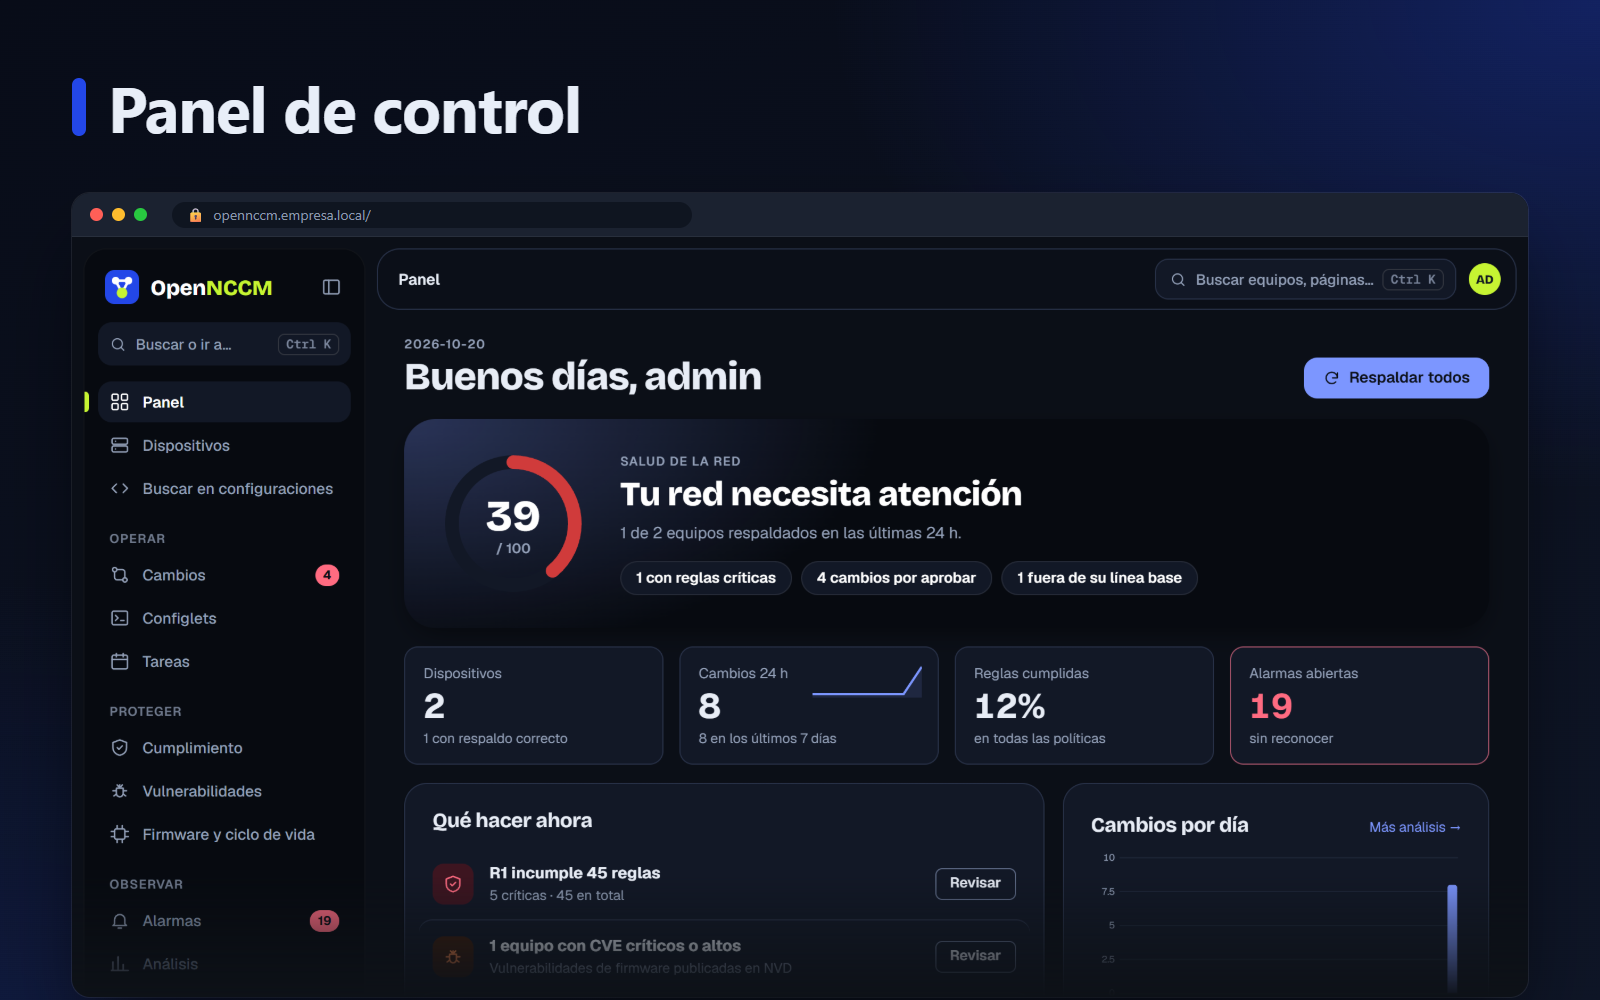
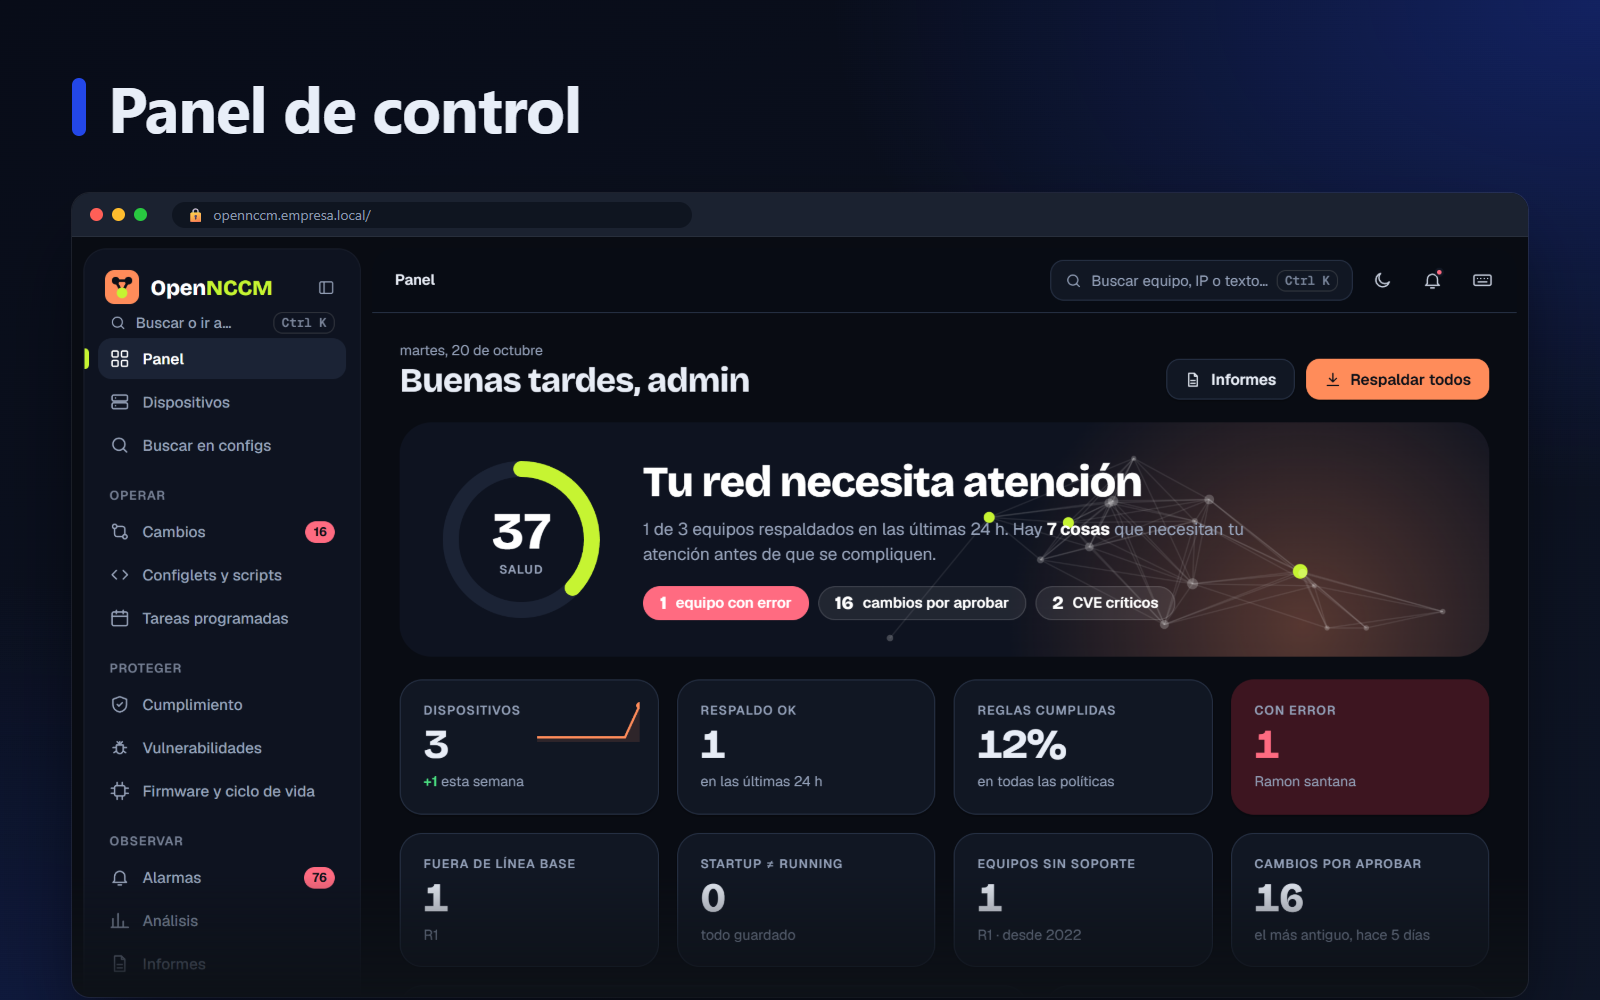
Web al día con OpenNCCM 2.0.1: capturas del diseño 2.0 y consola en diálogo

diff --git a/site/index.html b/site/index.html
@@ -116,17 +116,17 @@
     </div>
     <div class="galeria">
       <div class="pestanas" role="tablist" aria-label="Capturas">
-        <button role="tab" aria-selected="true" data-img="panel" data-txt="<b>Panel de control</b>: puntuación de salud de la red (0–100), «Qué hacer ahora» y el rendimiento del propio servidor.">Panel</button>
+        <button role="tab" aria-selected="true" data-img="panel" data-txt="<b>Panel de control</b>: puntuación de salud de la red (0–100), lo que necesita atención y el estado de respaldos, cumplimiento y cambios.">Panel</button>
         <button role="tab" aria-selected="false" data-img="equipo" data-txt="<b>Ficha del equipo</b>: inventario (modelo, serie y firmware) y el historial completo de cada configuración, organizados en pestañas.">Equipo</button>
         <button role="tab" aria-selected="false" data-img="diff" data-txt="<b>Comparación lado a lado</b>: un resumen «Qué cambió» y el detalle línea a línea, entre versiones o entre equipos distintos.">Comparación</button>
-        <button role="tab" aria-selected="false" data-img="consola" data-txt="<b>Consola SSH en el navegador</b>: entra al equipo sin instalar nada, en una ventana aparte y con auditoría.">Consola</button>
+        <button role="tab" aria-selected="false" data-img="consola" data-txt="<b>Consola SSH en el navegador</b>: entra al equipo sin instalar nada, en un diálogo sobre la página (o en ventana aparte), con reconexión, pantalla completa y auditoría.">Consola</button>
         <button role="tab" aria-selected="false" data-img="cumplimiento" data-txt="<b>Cumplimiento</b>: PCI DSS, HIPAA, SOX y hardening, con corrección en un clic (y aprobación si se exige).">Cumplimiento</button>
         <button role="tab" aria-selected="false" data-img="analisis" data-txt="<b>Análisis</b>: actividad por origen, mapa de calor día × hora («cuándo cambia la red»), tendencias y cumplimiento por política.">Análisis</button>
         <button role="tab" aria-selected="false" data-img="temas" data-txt="<b>3 temas y 7 acentos</b>: claro, sala de control (oscuro) y alto contraste, más el automático, todos con contraste WCAG 2.1 AA.">Temas</button>
       </div>
       <figure role="tabpanel">
         <img id="captura" src="img/capturas/panel.png" alt="Panel de control con el estado de la red y del servidor" width="1600" height="1000">
-        <figcaption id="captura-txt"><b>Panel de control</b>: puntuación de salud de la red (0–100), «Qué hacer ahora» y el rendimiento del propio servidor.</figcaption>
+        <figcaption id="captura-txt"><b>Panel de control</b>: puntuación de salud de la red (0–100), lo que necesita atención y el estado de respaldos, cumplimiento y cambios.</figcaption>
       </figure>
     </div>
   </div>
@@ -146,7 +146,7 @@
       <article class="tarjeta"><div class="icono">🛡</div><h3>Cumplimiento</h3><p>Mapa equipo × política, corrección por regla y un editor que prueba cada regla en vivo. Paquetes PCI DSS 4.0, HIPAA, SOX y hardening de Cisco IOS y Junos.</p></article>
       <article class="tarjeta"><div class="icono">📦</div><h3>Firmware</h3><p>Repositorio de imágenes, actualización remota (SCP, MD5, arranque y reinicio) y fin de vida EOL/EOS en una sola página, con el soporte restante de cada equipo.</p></article>
       <article class="tarjeta"><div class="icono">🚨</div><h3>Vulnerabilidades</h3><p>CVE del firmware de cada equipo (NVD) agrupadas por vulnerabilidad, con la marca «explotado activamente» del catálogo KEV de CISA.</p></article>
-      <article class="tarjeta"><div class="icono">🖥</div><h3>Consola web</h3><p>SSH al equipo desde el navegador, en ventana aparte, con inicio de sesión automático opcional y auditoría.</p></article>
+      <article class="tarjeta"><div class="icono">🖥</div><h3>Consola web</h3><p>SSH al equipo desde el navegador, en un diálogo con reconexión y pantalla completa o en ventana aparte, con inicio de sesión automático opcional y auditoría.</p></article>
       <article class="tarjeta"><div class="icono">⏰</div><h3>Operación diaria</h3><p>Tareas programadas sin escribir cron, alarmas por severidad y avisos por correo, Teams, Slack o Telegram.</p></article>
       <article class="tarjeta"><div class="icono">📈</div><h3>Análisis e informes</h3><p>Actividad por origen, mapa de calor día × hora, tendencias y cumplimiento por política; informes en pantalla, CSV y por correo.</p></article>
       <article class="tarjeta"><div class="icono">🔐</div><h3>Acceso y seguridad</h3><p>Roles admin, operador y lector, grupos de equipos, verificación en dos pasos (TOTP) y auditoría completa.</p></article>

diff --git a/site/en/index.html b/site/en/index.html
@@ -118,17 +118,17 @@
     </div>
     <div class="galeria">
       <div class="pestanas" role="tablist" aria-label="Screenshots">
-        <button role="tab" aria-selected="true" data-img="panel" data-txt="<b>Dashboard</b>: a network health score (0–100), a “What to do now” list and the health of the server itself.">Dashboard</button>
+        <button role="tab" aria-selected="true" data-img="panel" data-txt="<b>Dashboard</b>: a network health score (0–100), what needs attention, and the state of backups, compliance and changes.">Dashboard</button>
         <button role="tab" aria-selected="false" data-img="equipo" data-txt="<b>Device page</b>: inventory (model, serial number and firmware) and the full history of every configuration, organized in tabs.">Device</button>
         <button role="tab" aria-selected="false" data-img="diff" data-txt="<b>Side-by-side diff</b>: a “What changed” summary plus line-by-line detail, between versions or between different devices.">Diff</button>
-        <button role="tab" aria-selected="false" data-img="consola" data-txt="<b>SSH console in the browser</b>: reach the device with nothing to install, in its own window and fully audited.">Console</button>
+        <button role="tab" aria-selected="false" data-img="consola" data-txt="<b>SSH console in the browser</b>: reach the device with nothing to install, in a dialog over the page (or its own window), with reconnect, full screen and full auditing.">Console</button>
         <button role="tab" aria-selected="false" data-img="cumplimiento" data-txt="<b>Compliance</b>: PCI DSS, HIPAA, SOX and hardening, with one-click remediation (and approval if required).">Compliance</button>
         <button role="tab" aria-selected="false" data-img="analisis" data-txt="<b>Analytics</b>: activity by source, a day × hour heat map (“when does the network change”), trends and compliance by policy.">Analytics</button>
         <button role="tab" aria-selected="false" data-img="temas" data-txt="<b>3 themes and 7 accents</b>: light, control room (dark) and high contrast, plus automatic, all meeting WCAG 2.1 AA contrast.">Themes</button>
       </div>
       <figure role="tabpanel">
         <img id="captura" src="../img/capturas/panel.png" alt="Dashboard showing the state of the network and the server" width="1600" height="1000">
-        <figcaption id="captura-txt"><b>Dashboard</b>: a network health score (0–100), a “What to do now” list and the health of the server itself.</figcaption>
+        <figcaption id="captura-txt"><b>Dashboard</b>: a network health score (0–100), what needs attention, and the state of backups, compliance and changes.</figcaption>
       </figure>
     </div>
   </div>
@@ -148,7 +148,7 @@
       <article class="tarjeta"><div class="icono">🛡</div><h3>Compliance</h3><p>Device × policy map, per-rule remediation and an editor that tests every rule live. Packs for PCI DSS 4.0, HIPAA, SOX and Cisco IOS / Junos hardening.</p></article>
       <article class="tarjeta"><div class="icono">📦</div><h3>Firmware</h3><p>Image repository, remote upgrades (SCP, MD5, boot and reload) and end of life / end of support on one page, with each device's remaining support.</p></article>
       <article class="tarjeta"><div class="icono">🚨</div><h3>Vulnerabilities</h3><p>Firmware CVEs for every device (NVD), grouped by vulnerability and flagged “actively exploited” from the CISA KEV catalog.</p></article>
-      <article class="tarjeta"><div class="icono">🖥</div><h3>Web console</h3><p>SSH to the device from the browser, in its own window, with optional automatic login and full auditing.</p></article>
+      <article class="tarjeta"><div class="icono">🖥</div><h3>Web console</h3><p>SSH to the device from the browser, in a dialog with reconnect and full screen or in its own window, with optional automatic login and full auditing.</p></article>
       <article class="tarjeta"><div class="icono">⏰</div><h3>Day-to-day operations</h3><p>Scheduled tasks without writing cron, alarms by severity, and alerts by email, Teams, Slack or Telegram.</p></article>
       <article class="tarjeta"><div class="icono">📈</div><h3>Analytics and reports</h3><p>Activity by source, a day × hour heat map, trends and compliance by policy; on-screen reports, CSV and scheduled email delivery.</p></article>
       <article class="tarjeta"><div class="icono">🔐</div><h3>Access and security</h3><p>Admin, operator and viewer roles, device groups, two-factor authentication (TOTP) and a complete audit trail.</p></article>
